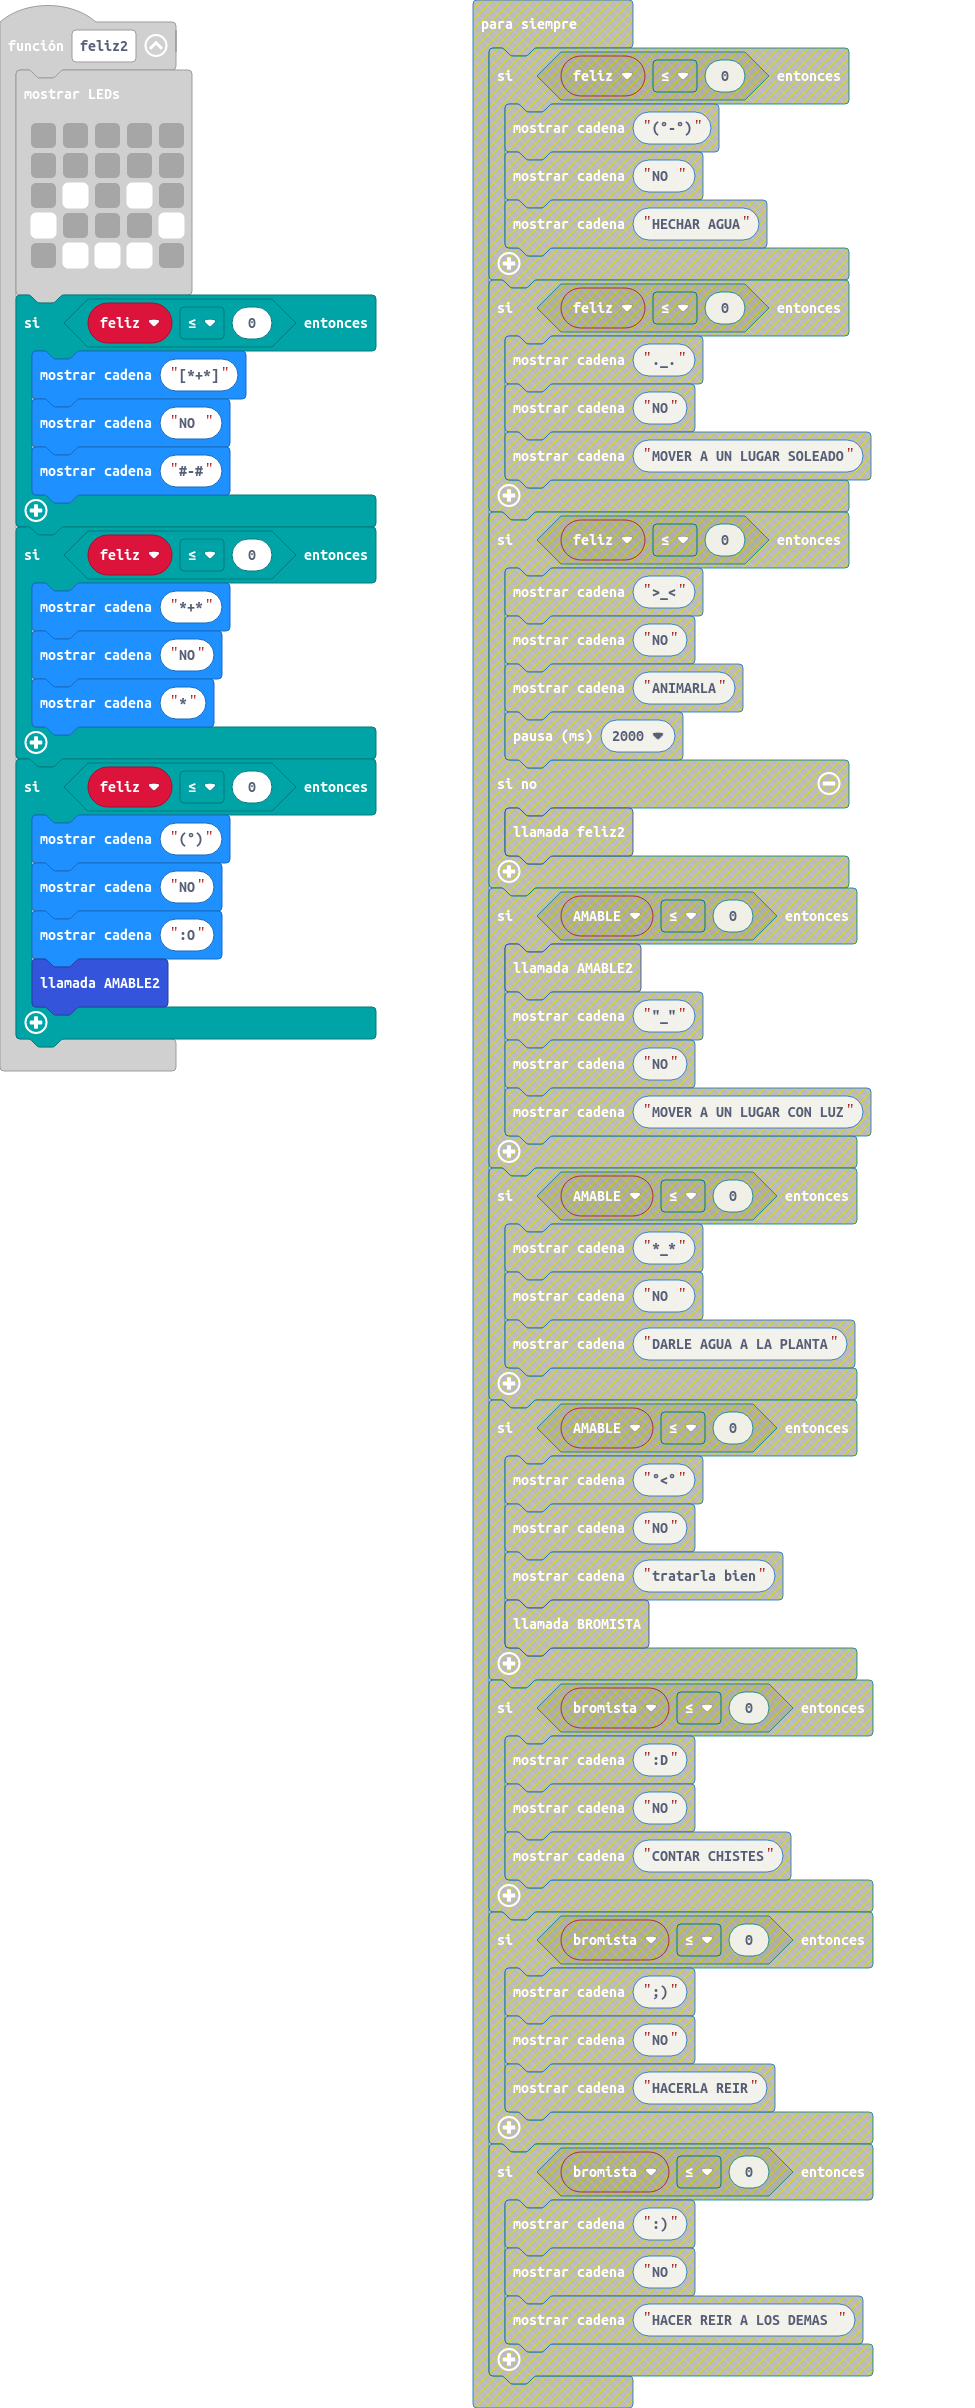
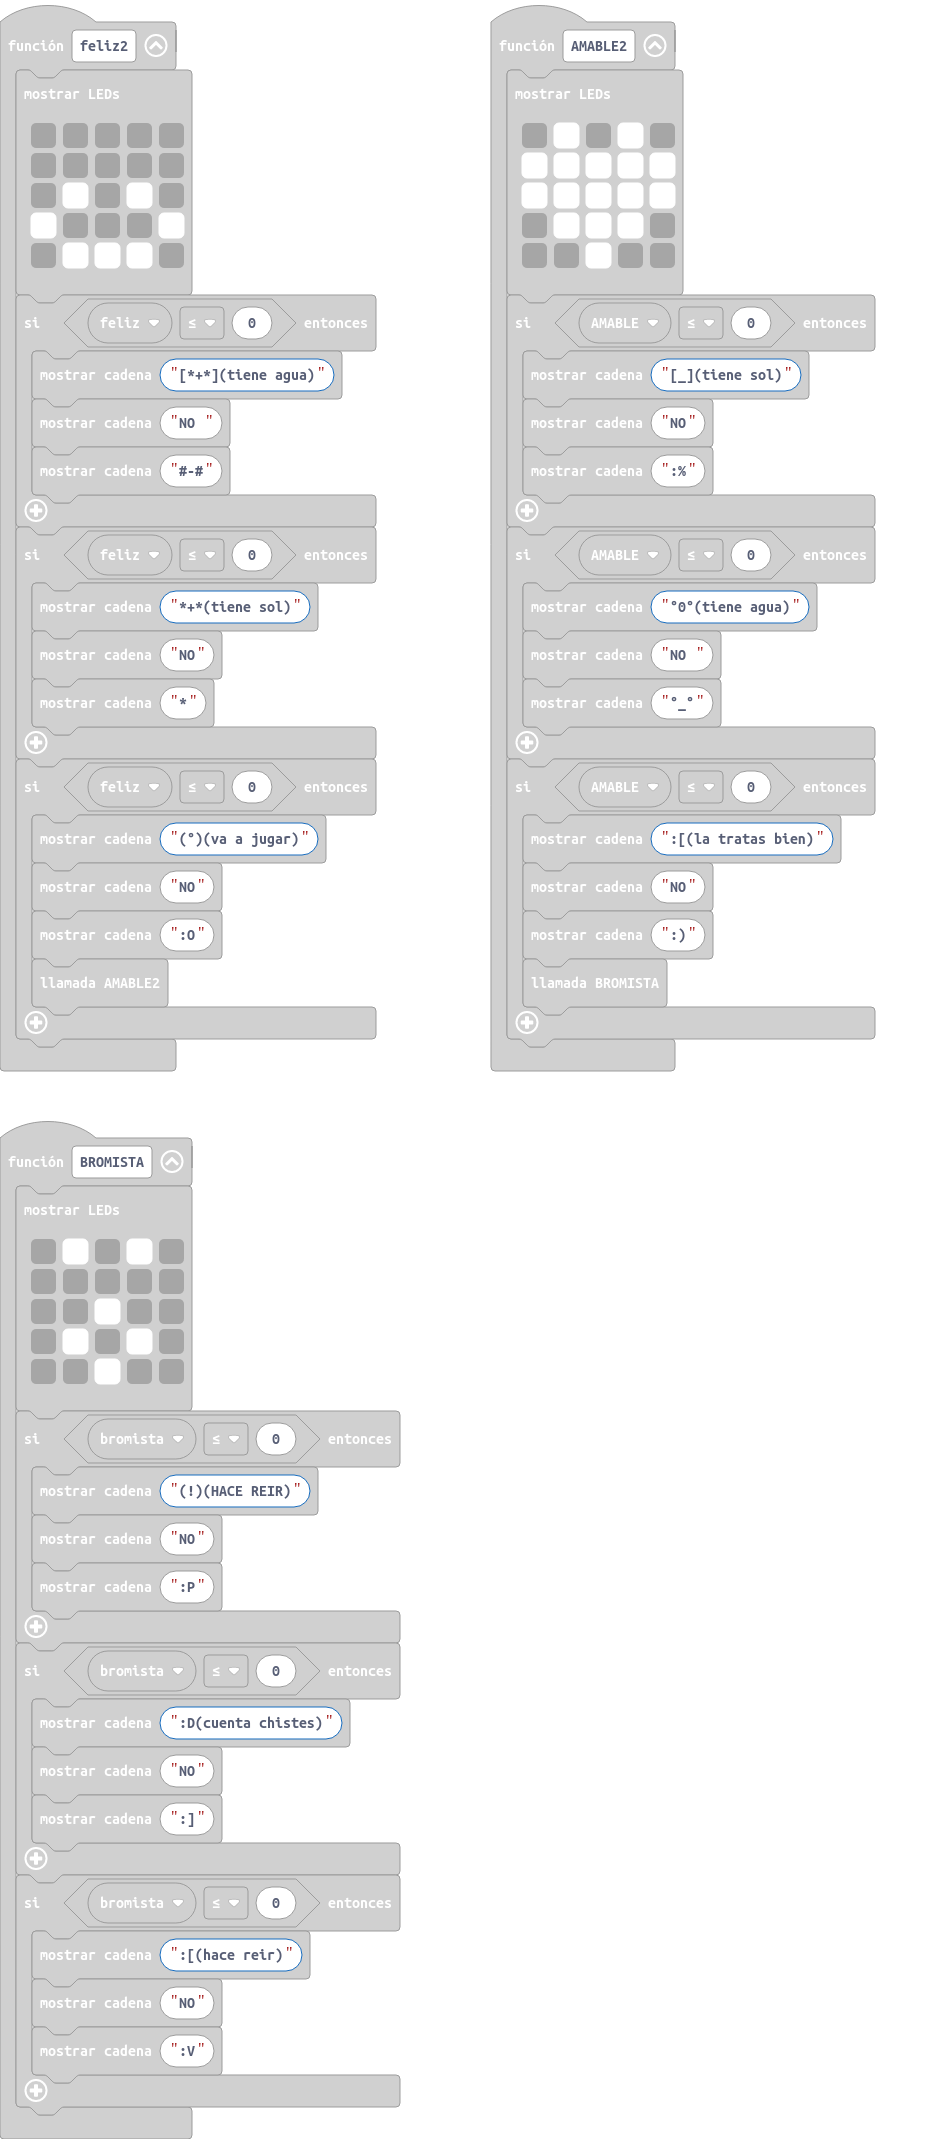
Actualizar main.blocks, main.ts

diff --git a/main.ts b/main.ts
@@ -7,17 +7,17 @@ function AMABLE2 () {
         . . # . .
         `)
     if (AMABLE <= 0) {
-        basic.showString("[_]")
+        basic.showString("[_](tiene sol)")
         basic.showString("NO")
         basic.showString(":%")
     }
     if (AMABLE <= 0) {
-        basic.showString("°0°")
+        basic.showString("°0°(tiene agua)")
         basic.showString("NO ")
         basic.showString("°_°")
     }
     if (AMABLE <= 0) {
-        basic.showString(":[")
+        basic.showString(":[(la tratas bien)")
         basic.showString("NO")
         basic.showString(":)")
         BROMISTA()
@@ -33,17 +33,17 @@ function BROMISTA () {
         . . # . .
         `)
     if (bromista <= 0) {
-        basic.showString("(!)")
+        basic.showString("(!)(HACE REIR)")
         basic.showString("NO")
         basic.showString(":P")
     }
     if (bromista <= 0) {
-        basic.showString(":D")
+        basic.showString(":D(cuenta chistes)")
         basic.showString("NO")
         basic.showString(":]")
     }
     if (bromista <= 0) {
-        basic.showString(":[")
+        basic.showString(":[(hace reir)")
         basic.showString("NO")
         basic.showString(":V")
     }
@@ -58,17 +58,17 @@ function feliz2 () {
         . # # # .
         `)
     if (feliz <= 0) {
-        basic.showString("[*+*]")
+        basic.showString("[*+*](tiene agua)")
         basic.showString("NO ")
         basic.showString("#-#")
     }
     if (feliz <= 0) {
-        basic.showString("*+*")
+        basic.showString("*+*(tiene sol)")
         basic.showString("NO")
         basic.showString("*")
     }
     if (feliz <= 0) {
-        basic.showString("(°)")
+        basic.showString("(°)(va a jugar)")
         basic.showString("NO")
         basic.showString(":O")
         AMABLE2()
